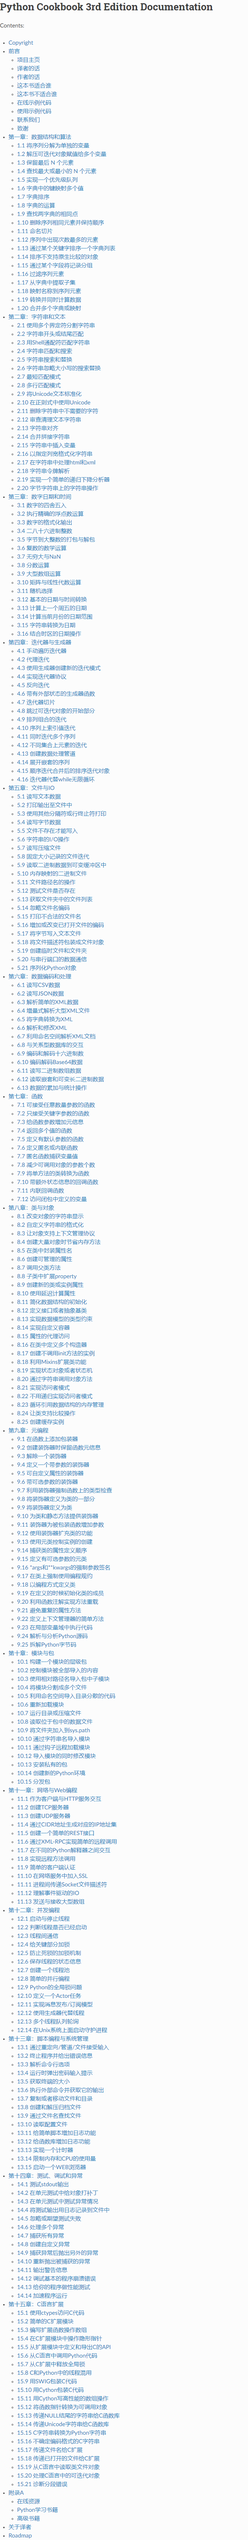
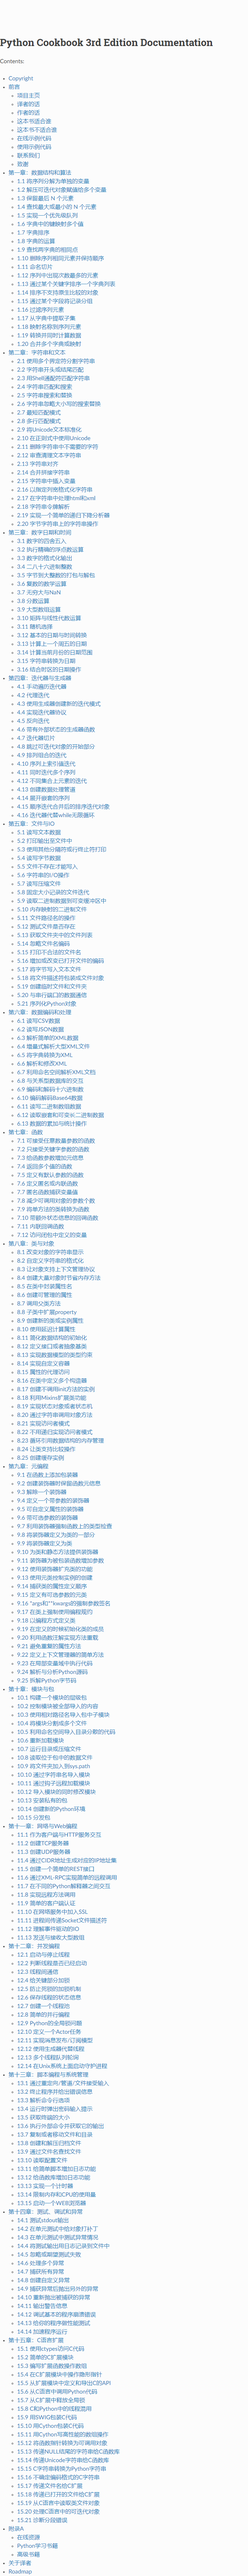
u

diff --git a/js_string/add_style.js b/js_string/add_style.js
@@ -1,0 +1,10 @@
+const addPadding = (selector, styleName, styleValue) => {
+  let el = document.querySelector(selector);
+  el.style[styleName] = styleValue;
+};
+addPadding(
+  replace_str_selector,
+  replace_str_style_name,
+  replace_str_style_value
+);
+return "finished";

diff --git a/scrapy_test.py b/scrapy_test.py
@@ -4,6 +4,8 @@ from selenium import webdriver
 from selenium.webdriver.common.by import By
 from selenium.webdriver.chrome.options import Options
 import os
+from selenium.webdriver.support import expected_conditions
+from selenium.webdriver.support.wait import WebDriverWait
 chrome_options = Options()
 chrome_options.add_argument("--headless")
 chrome_options.add_argument("--disable-gpu")
@@ -22,12 +24,31 @@ browser.execute_cdp_cmd(
 )
 # browser.maximize_window()
 # browser.set_window_size()
+# 通过js脚本，给页面添加padding
+def add_style(driver,selector,**kw):
+    with open('./js_string/add_style.js','r') as f:
+        js_string = f.read()
+        js_string = js_string.replace('replace_str_selector','"%s"' % selector)
+        js_string = js_string.replace('replace_str_style_name','"%s"' % kw['style_name'])
+        js_string = js_string.replace('replace_str_style_value','"%s"' % kw['style_value'])
+        res = driver.execute_script(js_string)
+        print(res)
+
+
 def screenMenu():
     try:
         browser.get(main_page)
-        browser.implicitly_wait(3)
+        # 创建等待对象
+        wait_obj = WebDriverWait(browser,10)
+        wait_obj.until(
+            expected_conditions.presence_of_element_located(
+                (By.CSS_SELECTOR,'#python-cookbook-3rd-edition-documentation')
+            )
+        )
+        # 隐式等待
+        # browser.implicitly_wait(3)
         titleEl = browser.find_elements(By.CSS_SELECTOR,"#python-cookbook-3rd-edition-documentation")[0]
-        # titleEl = browser.find_elements(By.CSS_SELECTOR,"body")[0]
+        add_style(browser,'#python-cookbook-3rd-edition-documentation',style_name="paddingTop",style_value='100px')
         loc = titleEl.location
         size = titleEl.size
         window_with = 1920
@@ -43,8 +64,7 @@ def screenMenu():
     finally:
         print('finally quit')
 
-
-# screenMenu()
+screenMenu()
 
 def getTocTree():
     selector_level_1 = '#python-cookbook-3rd-edition-documentation .toctree-wrapper .toctree-l1'
@@ -91,6 +111,8 @@ def saveFile(folder,file_name,content):
 #     logging.exception(e)
 # finally: 
 #     pass
+
+
 browser.quit()
 
 
